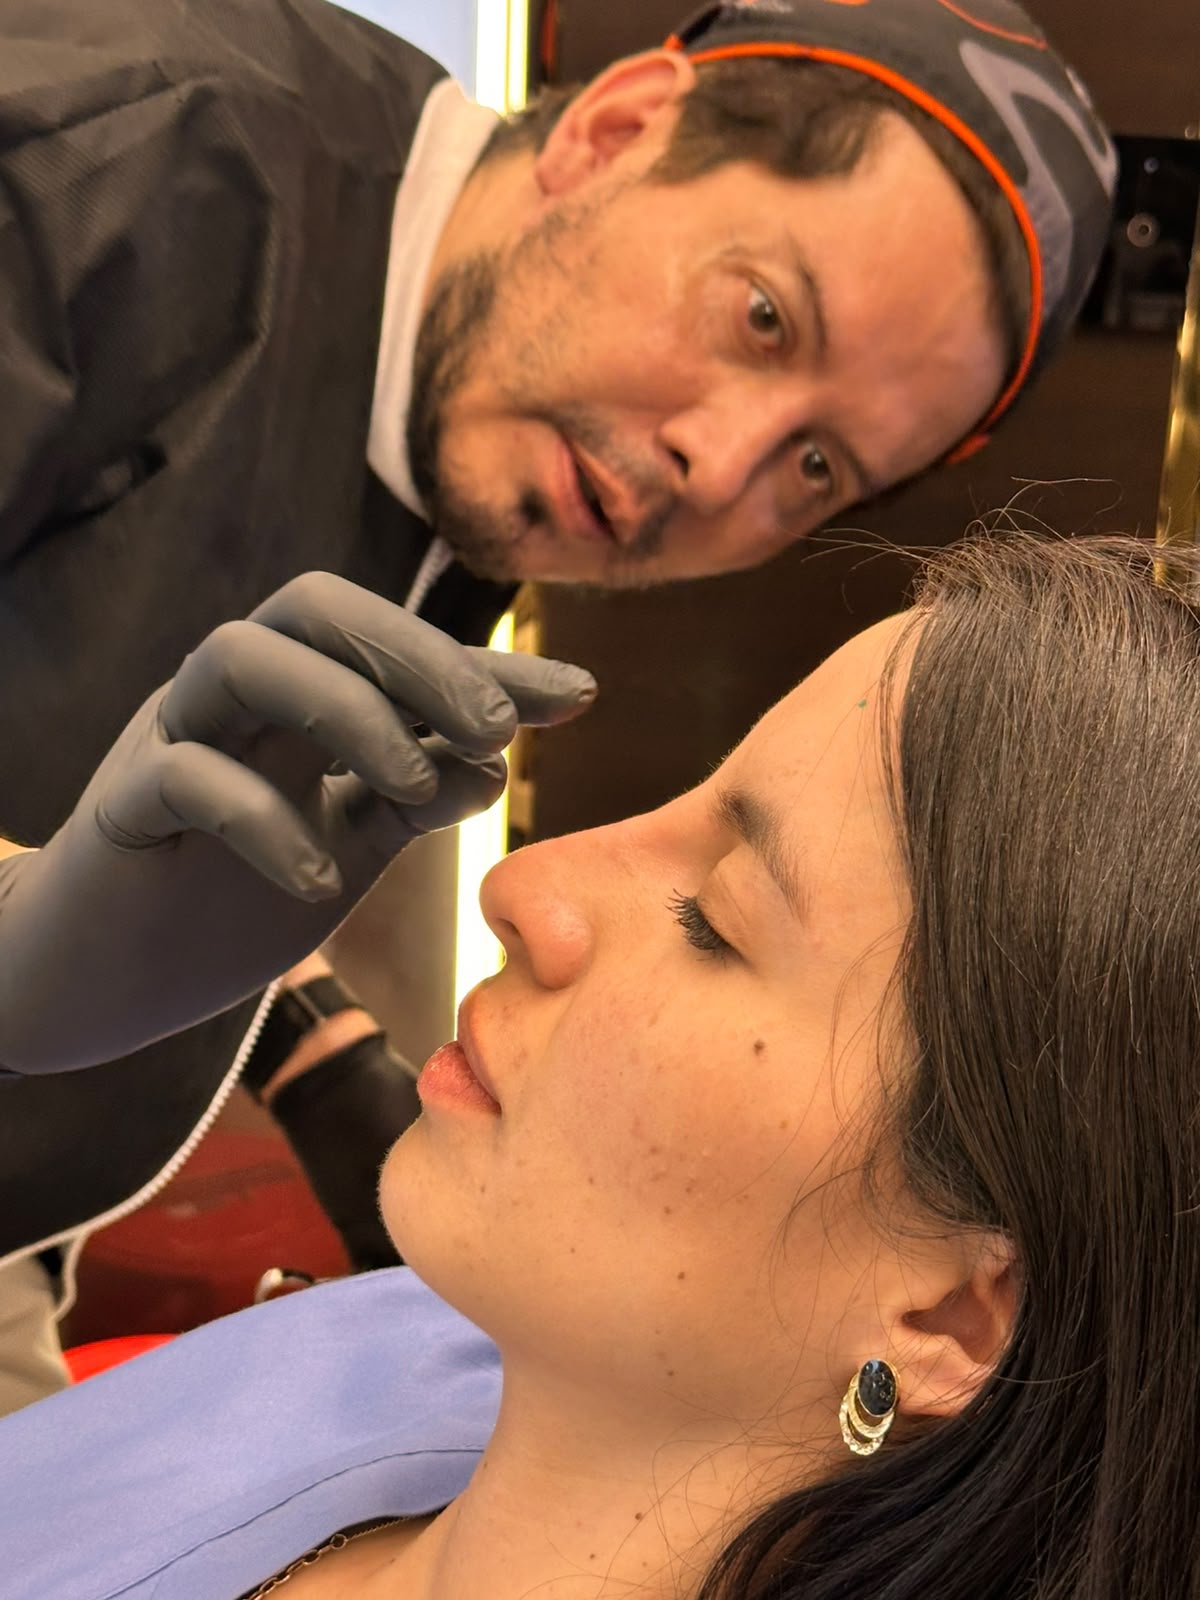
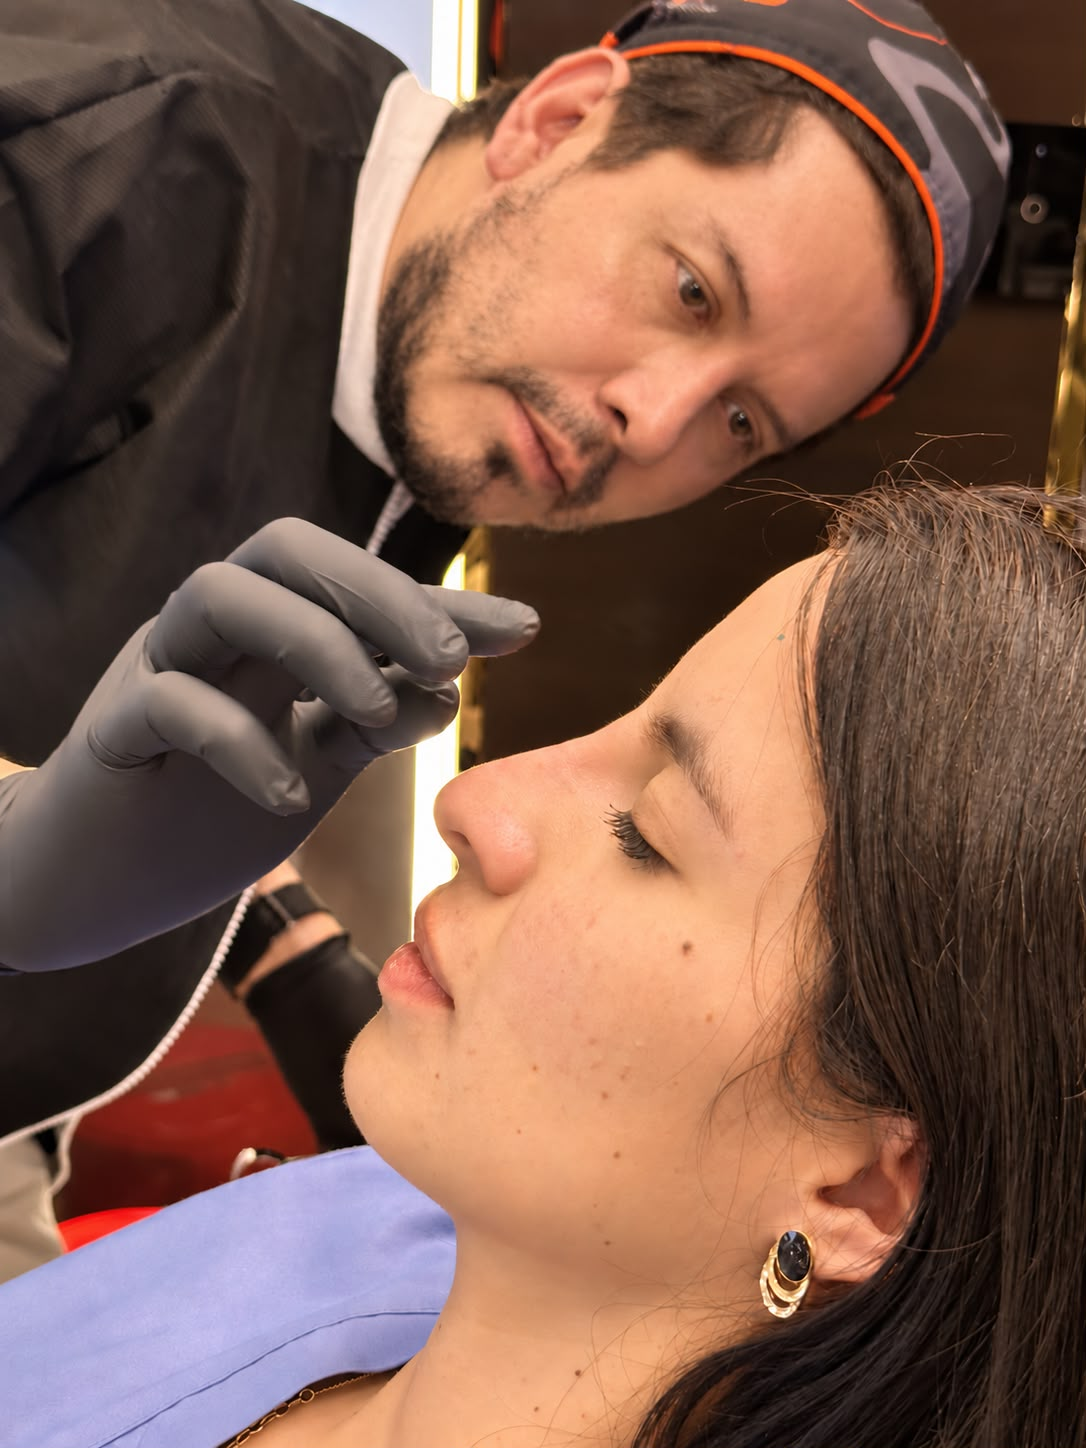
La tercera foto de Armonizacion, en su version retocada

diff --git a/tratamientos.html b/tratamientos.html
@@ -1086,11 +1086,11 @@
                    loading="lazy" decoding="async">
               <span class="tz-mosaico__ampliar" aria-hidden="true"><svg class="icono" aria-hidden="true" focusable="false"><use href="#linea-ampliar"></use></svg></span>
             </a>
-            <a class="tz-mosaico__pieza" href="imagenes/tratamientos/armonizacion-orofacial-2.webp?v=963f62ad36" aria-haspopup="dialog" style="--fx: 50%; --fy: 30%">
-              <img src="imagenes/tratamientos/armonizacion-orofacial-2.webp?v=963f62ad36"
-                   srcset="imagenes/tratamientos/armonizacion-orofacial-2-640.webp?v=4f13408f0d 640w, imagenes/tratamientos/armonizacion-orofacial-2.webp?v=963f62ad36 1200w"
+            <a class="tz-mosaico__pieza" href="imagenes/tratamientos/armonizacion-orofacial-2.webp?v=23aa263072" aria-haspopup="dialog" style="--fx: 50%; --fy: 30%">
+              <img src="imagenes/tratamientos/armonizacion-orofacial-2.webp?v=23aa263072"
+                   srcset="imagenes/tratamientos/armonizacion-orofacial-2-640.webp?v=81420c3c69 640w, imagenes/tratamientos/armonizacion-orofacial-2.webp?v=23aa263072 1086w"
                    sizes="(min-width: 992px) 13vw, 28vw"
-                   width="1200" height="1600"
+                   width="1086" height="1448"
                    alt="Especialista en armonización orofacial valorando el rostro de una paciente"
                    loading="lazy" decoding="async">
               <span class="tz-mosaico__ampliar" aria-hidden="true"><svg class="icono" aria-hidden="true" focusable="false"><use href="#linea-ampliar"></use></svg></span>
